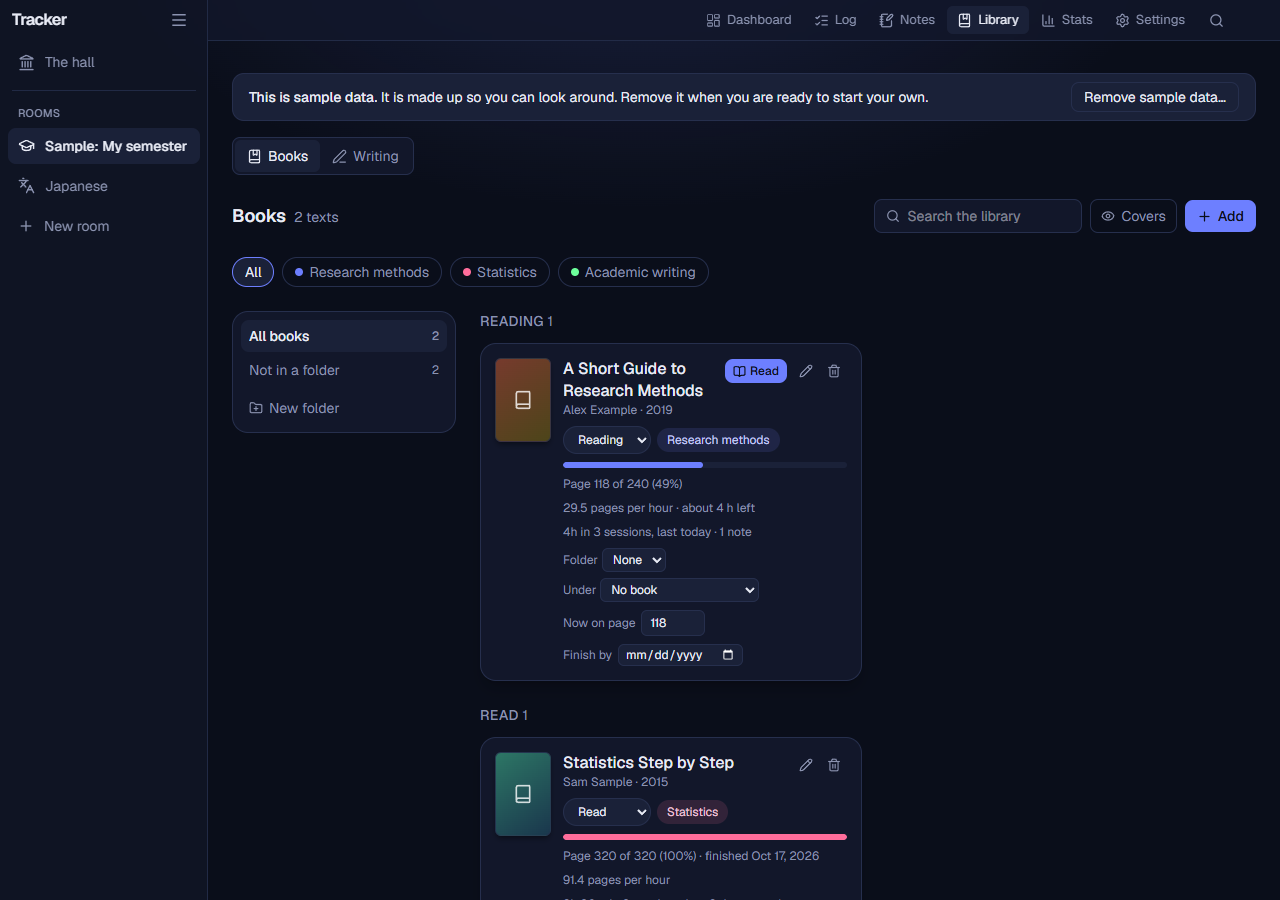
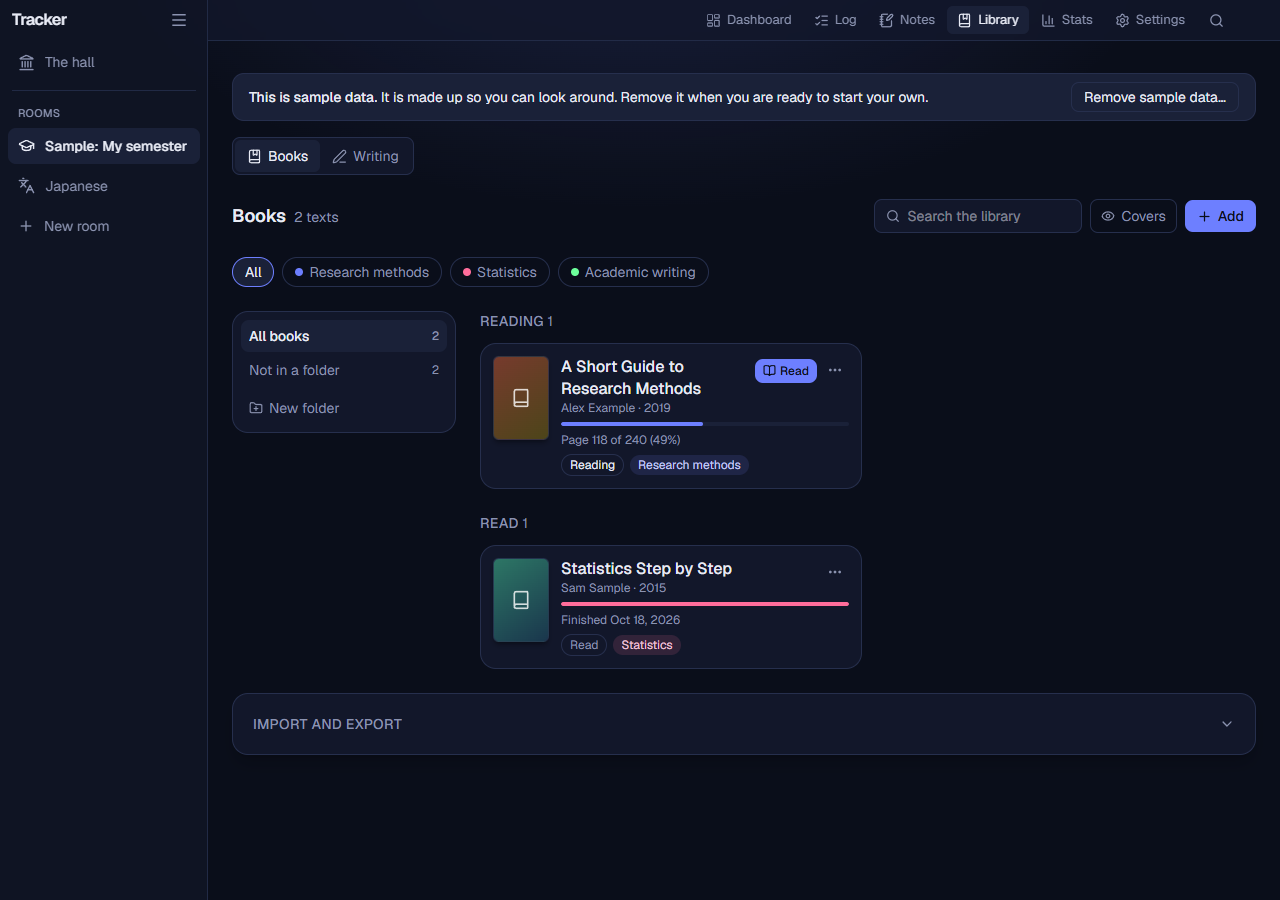
Update the site

diff --git a/docs/manual.html b/docs/manual.html
@@ -23,7 +23,7 @@
   </header>
 
   <h1>The full user manual</h1>
-  <p class="lead">Everything Tracker does, part by part. New here? Start with <a href="guide.html">Getting started in ten minutes</a>. This manual describes version 0.38.0; later versions may add things, and App settings, About lists what changed.</p>
+  <p class="lead">Everything Tracker does, part by part. New here? Start with <a href="guide.html">Getting started in ten minutes</a>. This manual describes version 0.39.0; later versions may add things, and App settings, About lists what changed.</p>
 
   <div class="layout">
     <nav class="toc" aria-label="Contents">
@@ -299,13 +299,23 @@
         <figure class="shot"><a class="zoom" href="img/library-add.png"><img src="img/library-add.png" width="1280" height="900" alt="The window for adding a book or article, with a search box and a link to enter the details by hand." loading="lazy"></a><figcaption>Adding a book. The search runs only when you press Search.</figcaption></figure>
         <p>Pick a result, check and correct the details (title, authors, year, publisher, pages, edition...) and save. If you choose a course for the book, Tracker asks whether to put the book under that course or to make it a normal connection (see <a href="#books-under">Books under courses, notes under books</a>). <strong>Enter it by hand instead</strong> skips the search entirely. When a book comes from a search, Tracker also keeps its cover picture.</p>
         <p><strong>Dropping files.</strong> Drag PDF or EPUB files onto the Library and each becomes a book with its file attached. Tracker reads from the file what it can: the title and authors, the number of pages, and a cover (the first page of a PDF, the cover picture of an EPUB). If the file names its ISBN, Tracker also looks the book up (as Search does) to fill in the publisher, year, edition and the shop cover; <em>Look up dropped books</em> in App settings, <em>Book search</em>, turns that off.</p>
+        <h3 id="book-page">A book&rsquo;s own page</h3>
+        <p>Each book in the list is a quiet card: its cover, title and authors, a thin line for how far you are, its status and course, and <strong>Read</strong> when it has a file. Its <strong>...</strong> menu changes the status, opens <em>Edit details</em>, moves it (into a room, or to the hall) and deletes it. Click anywhere else on the card to open the book&rsquo;s own page, where everything about it is together:</p>
+        <ul>
+          <li><strong>At the top</strong>: the cover and details, the status (change it there), the course, the book it is part of, how far you are with the pace and time left, <em>Now on page</em> and <em>Finish by</em> (a reading plan: the pages a day it takes), then <em>Read</em> (or <em>Continue reading</em>), <em>Notes</em> and <em>Edit details</em>.</li>
+          <li><strong>Tiles</strong>: the notes and highlights about it, its flashcards (how many are due), the time read and the documents that cite it, each leading to them.</li>
+          <li><strong>Notes</strong> about it with their pages, its <strong>highlights</strong> that have no note, the <strong>chapters and articles</strong> inside it, and the latest <strong>reading</strong> logged against it.</li>
+          <li><strong>Where it is kept</strong>: its folder, its folder in the hall, and the book it is part of. <strong>File</strong>: attach, replace or remove its PDF or EPUB. <strong>Citation</strong>: the reference in the style you choose, with <em>Copy</em>.</li>
+        </ul>
+        <figure class="shot"><a class="zoom" href="img/library-book.png"><img src="img/library-book.png" width="1280" height="900" alt="A book's own page: its cover and progress at the top, tiles for its notes, flashcards, time read and citing documents, its notes and reading sessions, and on the side where it is kept, its file and its citation." loading="lazy"></a><figcaption>A book&rsquo;s own page.</figcaption></figure>
+        <p>Links to a book from elsewhere (a note&rsquo;s book, a flashcard, the graph, search, the reader&rsquo;s way back) open this page.</p>
         <h3 id="folders">Folders and books under books</h3>
         <ul>
-          <li><strong>Folders.</strong> The <em>Folders</em> panel beside the list holds your own folders, for books and documents alike: <em>New folder</em>, and on a folder <em>New folder inside</em>, rename and delete. Click a folder to show what is in it (and in the folders inside it); its number counts those too. A folder with folders inside has an arrow to close it and open it again, as a book&rsquo;s contents, and a closed folder stays closed in that browser. <em>All books</em> and <em>Not in a folder</em> are at the top. Put a book in a folder by dragging it onto the folder, or with <em>Folder</em> on the book. Deleting a folder keeps what was in it: it moves up to the folder above (or out of any folder).</li>
-          <li><strong>Books under books.</strong> <em>Under</em> on a book puts it under another book, for a chapter, a volume of a series or an article in a collection. It is then listed indented under that book, at any depth. A book cannot go under itself or a book under it.</li>
+          <li><strong>Folders.</strong> The <em>Folders</em> panel beside the list holds your own folders, for books and documents alike: <em>New folder</em>, and on a folder <em>New folder inside</em>, rename and delete. Click a folder to show what is in it (and in the folders inside it); its number counts those too. A folder with folders inside has an arrow to close it and open it again, as a book&rsquo;s contents, and a closed folder stays closed in that browser. <em>All books</em> and <em>Not in a folder</em> are at the top. Put a book in a folder by dragging it onto the folder, or with <em>Folder</em> on its page. Deleting a folder keeps what was in it: it moves up to the folder above (or out of any folder).</li>
+          <li><strong>Books under books.</strong> <em>Part of</em> on a book&rsquo;s page puts it under another book, for a chapter, a volume of a series or an article in a collection. It is then listed indented under that book, at any depth. A book cannot go under itself or a book under it.</li>
         </ul>
         <h3 id="archive">The hall&rsquo;s books</h3>
-        <p>The hall&rsquo;s <strong>Books</strong> keeps books that belong to no room: anything you read in general. Drop PDF or EPUB files on it, or <em>Add a book</em> by its ISBN or title, as in a Library. They are read in the same reader, with highlights, text boxes, drawings, notes (the hall&rsquo;s), Ask and the timer; flashcards belong to a room. It also lists every room&rsquo;s books, under <em>In rooms</em>, and every book can be edited here (its room&rsquo;s courses to choose from, for a room&rsquo;s book). The hall&rsquo;s <strong>folders</strong> are its own, for any book: a book in a room can go in a folder here beside books in no room, and keeps the folder it has in its room&rsquo;s Library (a book can be in <em>Syntax</em> in its room and in <em>Linguistics</em> here). Drag a book onto a folder, or choose its <em>Folder</em> on the book; a folder shows its books together, whatever room each is in. A book can go under another book of the same room, or of none. <strong>Move into a room</strong> on a book of the hall moves it there, with its file and highlights, when it belongs to a course there. <em>Move it to the hall</em> does the opposite for a book that has no notes, sessions, flashcards or citations yet.</p>
+        <p>The hall&rsquo;s <strong>Books</strong> keeps books that belong to no room: anything you read in general. Drop PDF or EPUB files on it, or <em>Add a book</em> by its ISBN or title, as in a Library. They are read in the same reader, with highlights, text boxes, drawings, notes (the hall&rsquo;s), Ask and the timer; flashcards belong to a room. It also lists every room&rsquo;s books, under <em>In rooms</em>, and every book can be edited here (its room&rsquo;s courses to choose from, for a room&rsquo;s book). The hall&rsquo;s <strong>folders</strong> are its own, for any book: a book in a room can go in a folder here beside books in no room, and keeps the folder it has in its room&rsquo;s Library (a book can be in <em>Syntax</em> in its room and in <em>Linguistics</em> here). Drag a book onto a folder, or choose its <em>Folder in the hall</em> on its page; a folder shows its books together, whatever room each is in. A book can go under another book of the same room, or of none. <strong>Move into</strong> a room, in the <strong>...</strong> menu of a book of the hall, moves it there, with its file and highlights, when it belongs to a course there. <em>Move it to the hall</em> does the opposite for a book that has no notes, sessions, flashcards or citations yet.</p>
         <h3>Reading a text</h3>
         <ul>
           <li><strong>Status</strong>: To read, Reading, Paused, Read. Starting to read and finishing are dated for you.</li>
